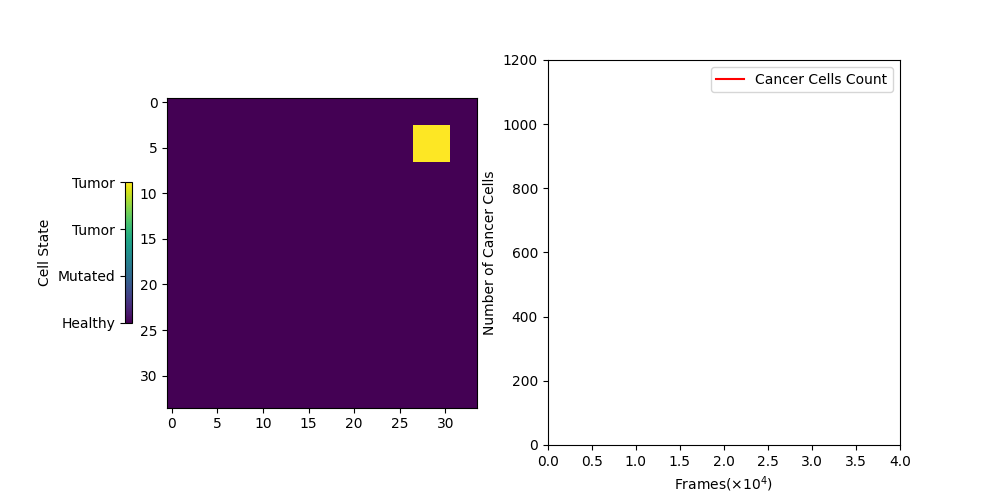
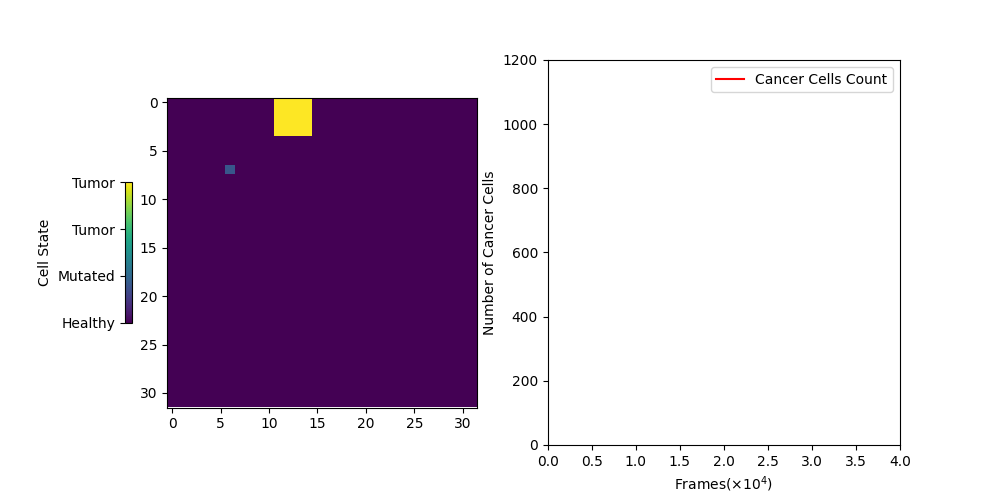
new push

diff --git a/config.py b/config.py
@@ -2,7 +2,7 @@
 import math
 
 # Number of possible cells in the grid
-N = 1200  
+N = 1024 
 
 # Grid size
 grid_size = math.floor(math.sqrt(N))
@@ -23,7 +23,7 @@ T = 40000
 a, b, c, d = 3, 0, 5, 1
 
 # Interval for immunotherapy (in frames)
-immunotherapy_interval = 5000 
+immunotherapy_interval = 50000000 
 
 # Fraction of cancer cells to kill during immunotherapy
-immunotherapy_kill_fraction = 0.2  
+immunotherapy_kill_fraction = 0.6  

diff --git a/animation.py b/animation.py
@@ -16,7 +16,7 @@ def create_animation(population):
     ax2.set_xlabel('Frames')
     ax2.set_ylabel('Number of Cancer Cells')
     ax2.set_xlim(0, T)
-    ax2.set_ylim(0, N)
+    ax2.set_ylim(0, 1200)
     ax2.set_xticks(np.arange(0, T+1, 5000))  # or choose another interval if needed
     ax2.set_xticklabels([f"{x/10000:.1f}" for x in np.arange(0, T+1, 5000)])
     ax2.set_xlabel(r'Frames($\times 10^4$)')

diff --git a/population.py b/population.py
@@ -14,7 +14,6 @@ def initialize_population():
     for random_x, random_y in zip(random_xs, random_ys):
         population[random_x:random_x + tumor_size, random_y:random_y + tumor_size] = 16
 
-    print(population)
     return population
 
 def mutate(cell):
